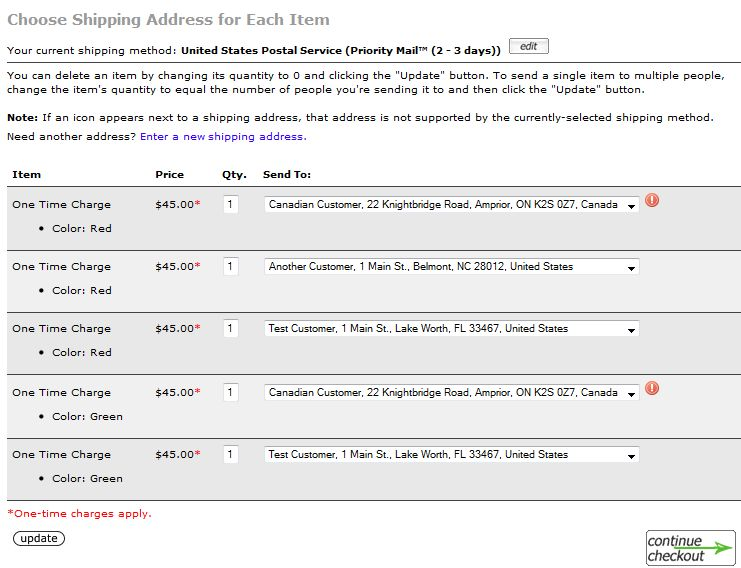
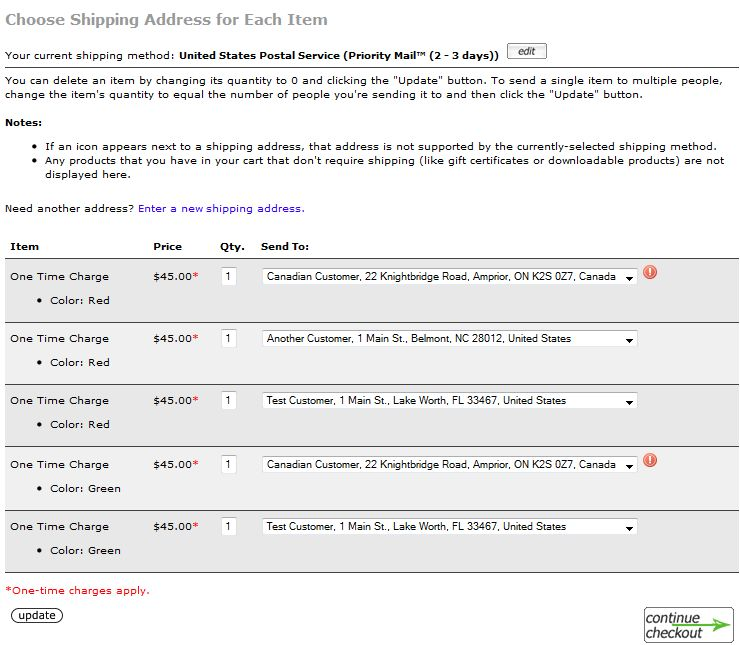
Issue #1: Improper handling of "mixed" carts
Update the checkout_multiship page processing to account for "mixed"
carts, i.e. carts with a combination of physical and virtual products.
Refer to the readme.html file for more information.

diff --git a/docs/readme.html b/docs/readme.html
@@ -20,7 +20,7 @@ timeEffect : 750
 
 <body>
 <div id="top">
-  <h1 id="title">Multiple Ship-To Addresses for Zen Cart v1.5.1/v1.5.2 &mdash; <span class="smaller">Version 1.0.0, BETA 1</span></h1>
+  <h1 id="title">Multiple Ship-To Addresses for Zen Cart v1.5.1/v1.5.2 &mdash; <span class="smaller">Version 1.0.0, BETA 2</span></h1>
   <ul id="menu">
     <li><a href="#introduction" class="drop">Introduction</a>
       <div class="dropdown_1column">
@@ -101,11 +101,13 @@ timeEffect : 750
       <li>This plugin is currently a <strong>beta</strong> release; please don't install it on a live store!</li>
       <li>The following features have not yet been implemented, but will be prior to the plugin's <em>first non-beta</em> release:<ol>
         <li>Updates, especially a reduction of a product's quantity, to the shopping cart after the customer has selected multiple ship-to addresses.</li>
-        <li>The handling of virtual and mixed (i.e. virtual and physical products in the same cart) carts.</li>
+        <li><span style="text-decoration: line-through;">The handling of virtual and mixed (i.e. virtual and physical products in the same cart) carts.</span> <span style="font-size: smaller;">(incorporated in BETA2)</span></li>
         <li>Updating and maintaining different orders_status values for the different ship-to address &quot;sub-orders&quot;.</li>
       </ol></li>
       <li>Because this plugin makes modifications to the Zen Cart order process, it is not compatible with other plugins that also make order-related modifications including (but not limited to):<ul>
+        <li>Checkout Without Account (COWOA)</li>
         <li>Edit Orders</li>
+        <li>Fast and Easy Checkout</li>
         <li>Super Orders</li>
         <li>Ty Package Tracker</li>
         <li>USPS Click-and-Ship</li>
@@ -145,20 +147,27 @@ timeEffect : 750
 <h1 class="the_head" id="zcci">Zen Cart Customer Interfaces</h1>
 <div class="the_content">
   <div class="sub-content no-border">
-    <p>This plugin modifies the interfaces presented to your customers during the checkout process and, if an order is shipped to multiple addresses, their account history display.</p>
+    <p>This plugin modifies the interfaces presented to your customers during the checkout process and, if an order is shipped to multiple addresses, their account history display for that order.</p>
   </div>
  
   <h2 id="checkout" class="innerLink">During the Checkout Process</h2>
   <div class="sub-content">
     <h4 id="cc_offer">Initial Offer for Multiple Ship-To Addresses</h4>
     <img class="smallimg back" src="checkout_confirmation_offer.jpg" title="Sample output" alt="Sample output" />
-    <p>When a customer's current order qualifies for multiple ship-to addresses, a new link, as shown by the screenshot to the left, is displayed on your store's <em>Checkout Confirmation</em> page.  If the customer clicks that link, they're taken to the <em>Choose Multiple Shipping Addresses</em> (checkout_multiship) page.</p>
+    <div id="cc_offer_div">
+      <p>When a customer's current order <span class="bitalic">qualifies</span> for multiple ship-to addresses, a new link, as shown by the screenshot to the left, is displayed on your store's <em>Checkout Confirmation</em> page.  If the customer clicks that link, they're taken to the <em>Choose Multiple Shipping Addresses</em> (checkout_multiship) page. An order <span class="bitalic">qualifies</span> for multiple ship-to addresses if:</p>
+      <ol>
+        <li>The payment method that the customer chose supports multiple ship-to addresses and that payment method is enabled to provide such support.</li>
+        <li>There is one or more <b>physical</b> item present in the customer's cart.</li>
+        <li>The  customer is not using a guest checkout (either COWOA or PayPal Express Checkout).</li>
+      </ol>
+    </div>
     <div class="clear"></div>
     
     <h4 id="cc_choose">Choose Multiple Shipping Addresses</h4>
     <img class="smallimg back" src="checkout_multiship.jpg" title="Sample output" alt="Sample output" />
     <div id="cc_choose_div">
-      <p>The <code>checkout_multiship</code> page is presented to the customer when they click the link presented in the <code>checkout_confirmation</code> page.  This page's processing breaks down the customer's order into a collection of single-quantity line items so that the customer can choose the ship-to address for each item in their cart.</p><p><strong>Note:</strong> The processing for this page automatically disables the left and right sidebox display, to provide sufficient display width for the dropdown address menus.</p> 
+      <p>The <code>checkout_multiship</code> page is presented to the customer when they click the <span class="bitalic">Ship to multiple addresses?</span> link presented in the <code>checkout_confirmation</code> page.  This page's processing breaks down the customer's order into a collection of single-quantity line items so that the customer can choose the ship-to address for each item in their cart.</p><p><strong>Note:</strong> The processing for this page automatically disables the left and right sidebox display, to provide sufficient display width for the dropdown address menus.</p> 
       <p>This page operates as follows:</p>
       <ul>
         <li>Initially, all items ship to the customer's current delivery address (as selected on the <code>checkout_shipping</code> page).</li>
@@ -166,7 +175,8 @@ timeEffect : 750
         <li>The customer uses the dropdown list of addresses &mdash; created from their current address book &mdash; to choose the address to which each individual item is to ship.</li>
         <li>An item (and its associated ship-to information) is removed by setting its quantity box to 0 and clicking the <em>Update</em> button.</li>
         <li>Clicking the &quot;Enter a new shipping address&quot; link will take the customer to their address book, where they can create a new address if needed.</li>
-        <li>Once the customer has chosen the send-to addresses for each item in their cart, they click the <em>Continue Checkout</em> button to return to the <em>Checkout Confirmation</em> page. If any address chosen is not compatible with the currently-selected shipping method, the customer will be returned to the <code>checkout_multiship</code> page to correct the problem.</li>
+        <li>Any <em>virtual</em> products in the customer's cart are not listed on this page, since a virtual product has no ship-to address.  All virtual products in a &quot;mixed&quot; (i.e. having a combination of physical and virtual products) cart will be associated with either the customer's default address (if one or more physical items is being shipped to that address) or the the address that has the lowest <code>address_id</code>.  If the customer chooses to send all items to a single address, then all virtual products are also &quot;sent&quot; to that address.</li>
+        <li>Once the customer has chosen the send-to addresses for each item in their cart, they click the <em>Continue Checkout</em> button to return to the <em>Checkout Confirmation</em> page. If any address chosen is not compatible with the currently-selected shipping method, the customer will be returned to the <code>checkout_multiship</code> page to correct the problem (as displayed by the screenshot to the left).</li>
       </ul>
     </div>
     <div class="clear"></div>
@@ -267,7 +277,10 @@ timeEffect : 750
   <h2 id="history" class="inner">Version History</h2>
   <div class="sub-content">
     <ul>
-      <li>v1.0.0 BETA 1, 2014-01-xx, Initial release.</li>
+      <li>v1.0.0 BETA 1, 2014-01-28, Initial release.</li>
+      <li>v1.0.0 BETA 2, 2014-xx-yy<ol>
+        <li>Incorporated handling of virtual products in the customer's order.</li>
+      </ol></li>
     </ul>
   </div>
   
@@ -280,7 +293,19 @@ timeEffect : 750
         <th width="50%">Files Changed/Added</th>
         <th width="45%">Database Changes</th>
       </tr>
-           
+      
+       <tr>
+        <td class="c1">v1.0.0 BETA2</td>
+        <td><ol>
+          <li>/includes/classes/class.multiship.php</li>
+          <li>/includes/languages/english/YOUR_TEMPLATE/checkout_multiship.php</li>
+          <li>/includes/modules/pages/checkout_multiship/header_php.php</li>
+          <li>/includes/templates/YOUR_TEMPLATE/css/checkout_multiship.css</li>
+          <li>/includes/templates/YOUR_TEMPLATE/templates/tpl_checkout_multiship_default.php</li>
+        </ol></td>
+        <td class="c3">&mdash;</td>
+      </tr>   
+      
     </table>
   </div>
 </div>

diff --git a/docs/style.css b/docs/style.css
@@ -6,7 +6,7 @@ code {font-family:"Courier New",Courier;}
 em { font-style: italic; }
 img { margin: 0.5% 0 0.25% 0.5%; width: 98%; max-width: 98%; border: 1px solid #666; }
 ol, ul { list-style-position: outside; margin-left: 1.5%; }
-#cc_confirm_div ul, #cc_choose_div ul { list-style-position: inside; }
+#cc_confirm_div ul, #cc_choose_div ul, #cc_offer_div ol { list-style-position: inside; }
 ol li, ul li { margin-left: 1%; padding-top: 0.5%; }
 p { padding-top: 0.5%; }
 p:first-child: { padding-top: 0; }
@@ -39,6 +39,7 @@ th, td { padding: 1%; border: 1px solid #3333ff; }
 .forward { float: right; }
 .clear { clear: both; }
 .smallimg.back { margin-right: 10px; }
+.bitalic { font-weight: bold; font-style: italic; color: blue; }
 #header { width: 100%; }
 #title { font-size: 20px; padding-top: 1%; padding-bottom: 1%; text-align: center; }
 h3, h4 { font-size: 12px; padding: 0.5% 0 0.5% 1%; border: 1px solid #5D90A7; background-color: #9ECED3; font-weight: bold; font-style: italic; margin-top: 0.5%; }

diff --git a/includes/templates/YOUR_TEMPLATE/css/checkout_multiship.css b/includes/templates/YOUR_TEMPLATE/css/checkout_multiship.css
@@ -1,4 +1,4 @@
-#checkoutMultishipNewAddress, #onetime_charges, #checkoutMultishipShipping { padding-top: 5px; padding-bottom: 5px; }
+#checkoutMultishipNewAddress, #onetime_charges, #checkoutMultishipShipping { padding-top: 10px; padding-bottom: 5px; }
 #checkoutMultishipShipping { border-bottom: 1px solid #414141; margin-bottom: 5px; }
 #multishipTable { display: table; width: 100%; }
 #multishipTableHeading, .multishipTableItem { display: table-row; }
@@ -8,3 +8,4 @@
 .even { background-color: #e8e8e8; }
 .odd { background-color: #f0f0f0; }
 .onetime_charge, #onetime_charges { color: red; }
+.virtual { display: none; }

diff --git a/includes/classes/class.multiship.php b/includes/classes/class.multiship.php
@@ -32,6 +32,13 @@ class multiship extends base {
   // to send their order to more than one shipping address ... and multiship is selected.  The address/prid
   // array is saved within the class data for processing on the checkout_confirmation page.
   //
+  // Note that the processing above is slightly modified when there is a mixture of physical and virtual
+  // products in the customer's cart.  This function/process won't be called if the entire cart is virtual
+  // since there's no shipping required!  If the cart is "mixed", then need to make sure that the 
+  // current shipping arrangement doesn't have all virtual products going to an address separate from
+  // the physical products.  If so, move the virtual products to be associated with one of the physical
+  // ship-to addresses.
+  //
   // The function returns a binary flag that indicates whether or not multiple shipping addresses have
   // been selected.
   // 
@@ -47,24 +54,73 @@ class multiship extends base {
         $this->selected = true;
         $address = $currentAddress;
       }
+      
       $prid = $prid_array[$i];
-      if (isset($multiship_values[$address][$prid])) {
-        $multiship_values[$address][$prid]++;
+      
+      if (isset($multiship_values[$address])) {
+        $multiship_values[$address]['has_physical'] |= $this->cart_item_is_physical ($prid);
         
       } else {
-        if (!isset($multiship_values[$address])) {
-          $multiship_values[$address] = array();
-        }
-        $multiship_values[$address][$prid] = 1;
+        $multiship_values[$address] = array();
+        $multiship_values[$address]['has_physical'] = $this->cart_item_is_physical ($prid);
+        
       }
-    }
+      
+      if (isset($multiship_values[$address][$prid])) {
+        $multiship_values[$address][$prid]++;
+         
+      } else {
+        $multiship_values[$address][$prid] = 1;
+        
+      }
+      
+    }  // END foreach inspecting each address/prid pair
+    
     if ($this->selected) {
-      $this->cart = $multiship_values;
+      if ($_SESSION['cart']->get_content_type() == 'mixed') {
+        $num_physical_addresses = 0;
+        foreach ($multiship_values as $address_id => $productInfo) {
+          if ($productInfo['has_physical']) {
+            $num_physical_addresses++;
+            if (!isset($physical_product_address_id)) {
+              $physical_product_address_id = $address_id;
+            }
+          } else {
+            $virtual_product_address_id = $address_id;
+          }
+        }
+        if (isset($virtual_product_address_id) && $num_physical_addresses == 1) {
+          $virtual_products = $multiship_values[$virtual_product_address_id];
+          unset ($virtual_products['has_physical'], $multiship_values[$virtual_product_address_id]);
+          if (isset($multiship_values[$_SESSION['customer_default_address_id']])) {
+            $physical_product_address_id = $_SESSION['customer_default_address_id'];
+          }
+          if (sizeof($multiship_values) == 1) {
+            $_SESSION['sendto'] = $physical_product_address_id;
+            $this->selected = false;
+            unset($this->cart);
+            
+          } else {
+            $multiship_values[$physical_product_address_id] = array_merge ($multiship_values[$physical_product_address_id], $virtual_products);
+            $this->cart = $multiship_values;
+            
+          }
+          
+        } else {
+          $this->cart = $multiship_values;
+          
+        }
+        
+      } else {
+        $this->cart = $multiship_values;
+
+      }
       
     } else {
       unset ($this->cart);
       
     }
+    
     return $this->selected;
   }
   
@@ -121,6 +177,33 @@ class multiship extends base {
   function get_noship_image($address_id = '') {
     global $template, $current_page_base;
     return ($address_id === '' || (isset($this->noship_address_id) && $address_id === $this->noship_address_id)) ? zen_image($template->get_template_dir(ICON_MULTISHIP_NOSHIP, DIR_WS_TEMPLATE, $current_page_base, 'images/icons') . '/' . ICON_MULTISHIP_NOSHIP, ICON_MULTISHIP_NOSHIP_ALT) : '';
+  }
+    
+  // -----
+  // Returns a boolean flag to indicate whether or not an item presently in the cart is a physical item.
+  //
+  function cart_item_is_physical ($prid) {
+    global $db;
+    $is_physical = false;
+    if (isset($_SESSION['cart']->contents[$prid])) {
+      $pID = (int)zen_get_prid ($prid);
+      $virtual_check = $db->Execute("SELECT products_virtual FROM " . TABLE_PRODUCTS . " WHERE products_id = $pID LIMIT 1");
+      $is_physical = ($virtual_check->fields['products_virtual'] == 0);
+      if ($is_physical && isset($_SESSION['cart']->contents[$prid]['attributes']) && is_array($_SESSION['cart']->contents[$prid]['attributes'])) {
+        foreach ($_SESSION['cart']->contents[$prid]['attributes'] as $option_id => $value_id) {
+          $download_count = $db->Execute("SELECT count(*) as total FROM " . TABLE_PRODUCTS_ATTRIBUTES . " pa, " . TABLE_PRODUCTS_ATTRIBUTES_DOWNLOAD . " pad
+                                           WHERE pa.products_id = $pID
+                                             AND pa.options_values_id = $value_id
+                                             AND pa.products_attributes_id = pad.products_attributes_id");
+          if ($download_count->fields['total'] > 0) {
+            $is_physical = false;
+            break;
+          }
+        }  // END per-attribute foreach
+      }
+    }
+    
+    return $is_physical;
   }
   
   // --------------------------------------------------------------------------
@@ -197,7 +280,7 @@ class multiship extends base {
   //
   function _createOrderFixupTotal ($orders_totals_array) {
     global $db, $currencies;
-    if (is_array($this->totals) && array_key_exists ($orders_totals_array['class'], $this->totals)) {
+    if (is_array($this->totals) && isset($this->totals[$orders_totals_array['class']])) {
       $this->_debugLog('_createOrderFixupTotal: start', array ('in' => $orders_totals_array, 'totals' => $this->totals));
       $currentTotal = $this->totals[$orders_totals_array['class']];
       $insert_id = $db->Insert_ID();
@@ -355,6 +438,23 @@ class multiship extends base {
       $email_order .= EMAIL_SEPARATOR . "\n" . TEXT_GRAND_TOTAL . $this->totals['ot_total'] . "\n\n"; 
     }
   }
+ 
+  // -----
+  // Called by the _prepare function, below, to count the number of PHYSICAL products present in the
+  // current session's cart.
+  //
+  function _cart_physical_items() {
+    $num_physical_items = 0;
+    foreach ($_SESSION['cart']->contents as $prid => $current_product) {     
+      if ($this->cart_item_is_physical($prid)) {
+        $num_physical_items += $current_product['qty'];
+      }
+      
+    }  // END per-product foreach
+    
+    return $num_physical_items;
+    
+  }
   
   // -----
   // Called by the multiship_observer class upon receipt of NOTIFY_HEADER_END_CHECKOUT_CONFIRMATION
@@ -369,12 +469,12 @@ class multiship extends base {
     // This selection is offered if all of the following are true:
     //
     // 1) The current payment method supports multiple shipping addresses and the shop-owner has enabled multiple shipping addresses.
-    // 2) There is more than one item in the customer's cart.
+    // 2) There is more than one "physical" item in the customer's cart.
     // 3) The current customer is not checking out via COWOA.
     // 4) The current customer is not checking out via a PayPal Express Checkout guest account.
     //
     $this->offer = ( method_exists($$_SESSION['payment'], 'multiple_shipping_addresses') && $$_SESSION['payment']->multiple_shipping_addresses() && 
-                     $_SESSION['cart']->count_contents() > 1 &&
+                     $this->_cart_physical_items() > 1 &&
                      !(isset($_SESSION['COWOA']) && $_SESSION['COWOA'] == 1) && 
                      !isset($_SESSION['customer_guest_id']) );
     
@@ -492,7 +592,7 @@ class multiship extends base {
               $currentTotal['text'] = $currencies->format($currentTotal['value'], true, $order->info['currency'], $order->info['currency_value']);
               $currentTotal['title'] = $shipping_method;
             }
-            if (!array_key_exists($code, $this->totals)) {
+            if (!isset($this->totals[$code])) {
               $this->totals[$code] = 0;
             }
             $this->totals[$code] += $currentTotal['value'];

diff --git a/includes/languages/english/YOUR_TEMPLATE/checkout_multiship.php b/includes/languages/english/YOUR_TEMPLATE/checkout_multiship.php
@@ -27,4 +27,4 @@ define('TEXT_ONETIME_CHARGES_APPLY', 'One-time charges apply.');
 define('TEXT_NEED_ANOTHER_ADDRESS', 'Need another address? ');
 define('TEXT_ENTER_NEW_ADDRESS', 'Enter a new shipping address.');
 define('TEXT_DELETE_ITEM', 'If you changed any quantities, click ');
-define('TEXT_MULTISHIP_INSTRUCTIONS', 'You can delete an item by changing its quantity to 0 and clicking the "Update" button. To send a single item to multiple people, change the item\'s quantity to equal the number of people you\'re sending it to and then click the "Update" button.<br /><br /><strong>Note:</strong> If an icon appears next to a shipping address, that address is not supported by the currently-selected shipping method.'); 
+define('TEXT_MULTISHIP_INSTRUCTIONS', 'You can delete an item by changing its quantity to 0 and clicking the "Update" button. To send a single item to multiple people, change the item\'s quantity to equal the number of people you\'re sending it to and then click the "Update" button.<br /><br /><strong>Notes:</strong><ul><li>If an icon appears next to a shipping address, that address is not supported by the currently-selected shipping method.</li><li>Any products that you have in your cart that don\'t require shipping (like gift certificates or downloadable products) are not displayed here.</li></ul>'); 

diff --git a/includes/modules/pages/checkout_multiship/header_php.php b/includes/modules/pages/checkout_multiship/header_php.php
@@ -196,8 +196,9 @@ $multiship_details = $_SESSION['multiship']->get_cart();
 for ($i = 0, $n = sizeof($productsArray); $i < $n; $i++) {
   $productsArray[$i]['sendto'] = $_SESSION['sendto'];
   $prid = $productsArray[$i]['id'];
+  $productsArray[$i]['is_physical'] = $_SESSION['multiship']->cart_item_is_physical($prid);
   foreach ($multiship_details as $address_id => &$currentProducts) {
-    if (array_key_exists($prid, $currentProducts) && $currentProducts[$prid] > 0) {
+    if (isset($currentProducts[$prid]) && $currentProducts[$prid] > 0) {
       $productsArray[$i]['sendto'] = $address_id;
       $currentProducts[$prid]--;
       break;

diff --git a/includes/templates/YOUR_TEMPLATE/templates/tpl_checkout_multiship_default.php b/includes/templates/YOUR_TEMPLATE/templates/tpl_checkout_multiship_default.php
@@ -27,7 +27,7 @@
 $even_odd = ' even';
 foreach ($productsArray as $currentProduct) {
 ?>
-    <div class="multishipTableItem<?php echo $even_odd; ?>">
+    <div class="multishipTableItem<?php echo $even_odd . (($currentProduct['is_physical']) ? '' : ' virtual'); ?>">
       <div class="item">
         <div class="msipItemName"><?php echo $currentProduct['name'] . zen_draw_hidden_field('prid[]', $currentProduct['id']); ?></div>
 <?php
